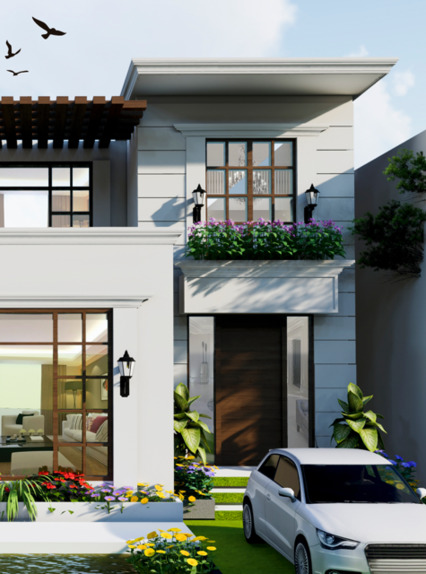
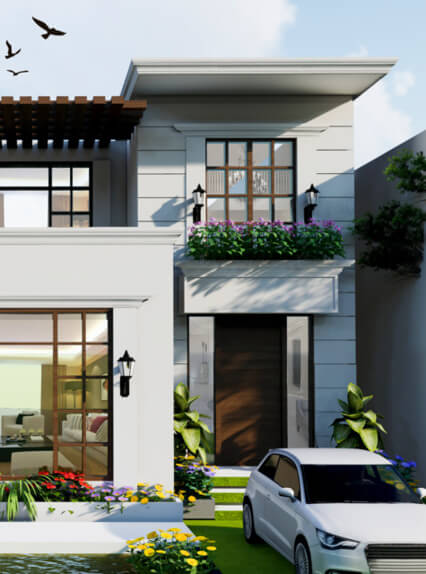
latest images adde

diff --git a/index.html b/index.html
@@ -147,7 +147,7 @@
             <li data-transition="slotzoom-horizontal" data-slotamount="7" data-masterspeed="1000"
               data-fsmasterspeed="1000">
 
-              <img src="images/slider/12.jpg" data-bgparallax="5" alt="" data-bgposition="center 0"
+              <img src="images/slider/1-1080x607.jpg" data-bgparallax="5" alt="" data-bgposition="center 0"
                 data-bgfit="cover" data-bgrepeat="no-repeat" class="rev-slidebg">
 
               <div class="tp-caption tp-shape tp-shapewrapper  tp-resizeme" data-x="['left']" data-hoffset="['100']"
@@ -220,7 +220,7 @@
             <li data-transition="slotzoom-horizontal" data-slotamount="7" data-masterspeed="1000"
               data-fsmasterspeed="1000">
 
-              <img src="images/slider/4.jpg" data-bgparallax="5" alt="" data-bgposition="center 0"
+              <img src="images/slider/2-1080x607.jpg" data-bgparallax="5" alt="" data-bgposition="center 0"
                 data-bgfit="cover" data-bgrepeat="no-repeat" class="rev-slidebg">
 
               <div class="tp-caption tp-shape tp-shapewrapper  tp-resizeme" data-x="['left']" data-hoffset="['100']"
@@ -293,7 +293,7 @@
             <li data-transition="slotzoom-horizontal" data-slotamount="7" data-masterspeed="1000"
               data-fsmasterspeed="1000">
 
-              <img src="images/slider/1.jpg" data-bgparallax="5" alt="" data-bgposition="center 0"
+              <img src="images/slider/3-1080x607.jpg" data-bgparallax="5" alt="" data-bgposition="center 0"
                 data-bgfit="cover" data-bgrepeat="no-repeat" class="rev-slidebg">
 
               <div class="tp-caption tp-shape tp-shapewrapper  tp-resizeme" data-x="['left']" data-hoffset="['100']"
